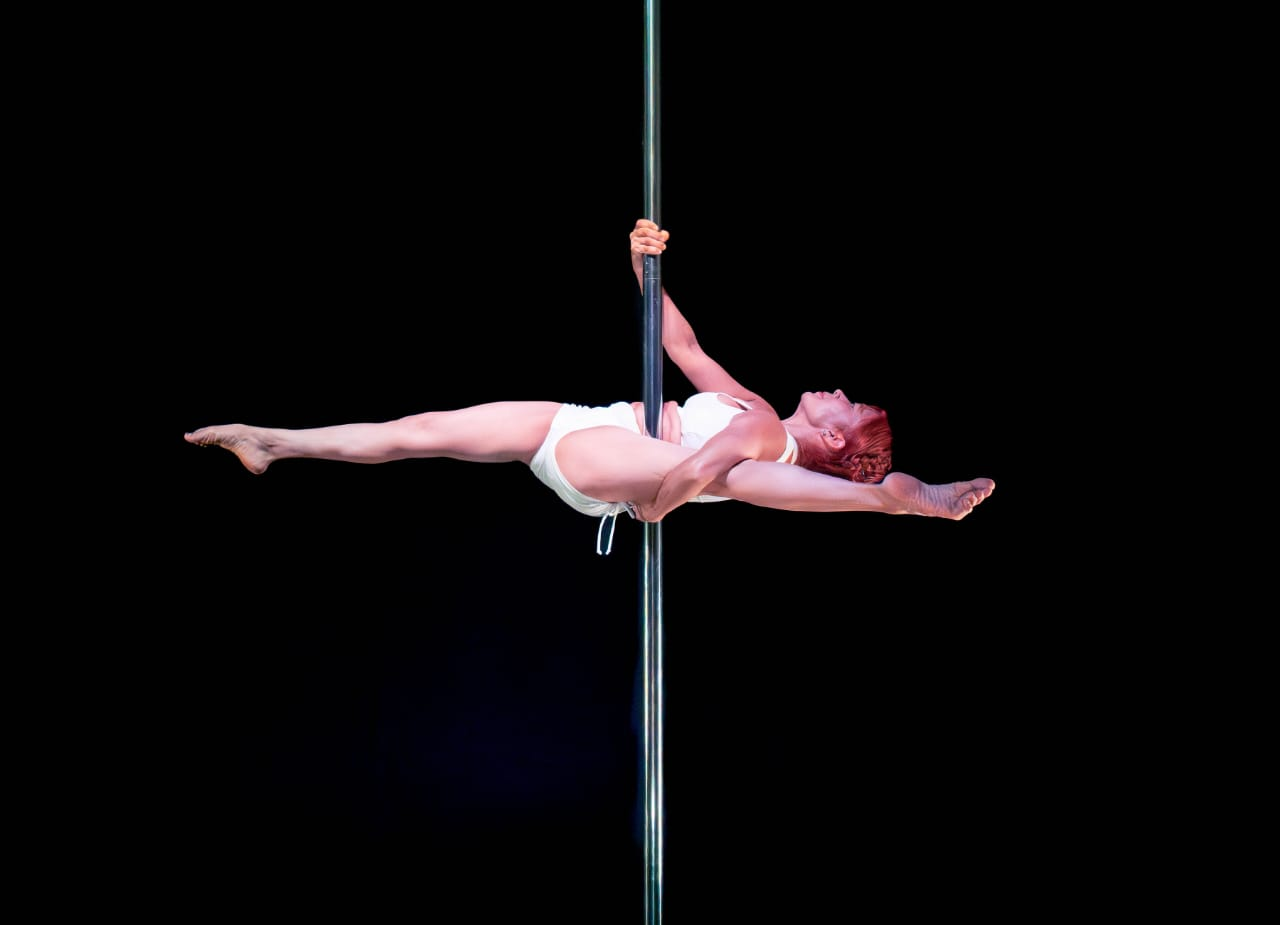
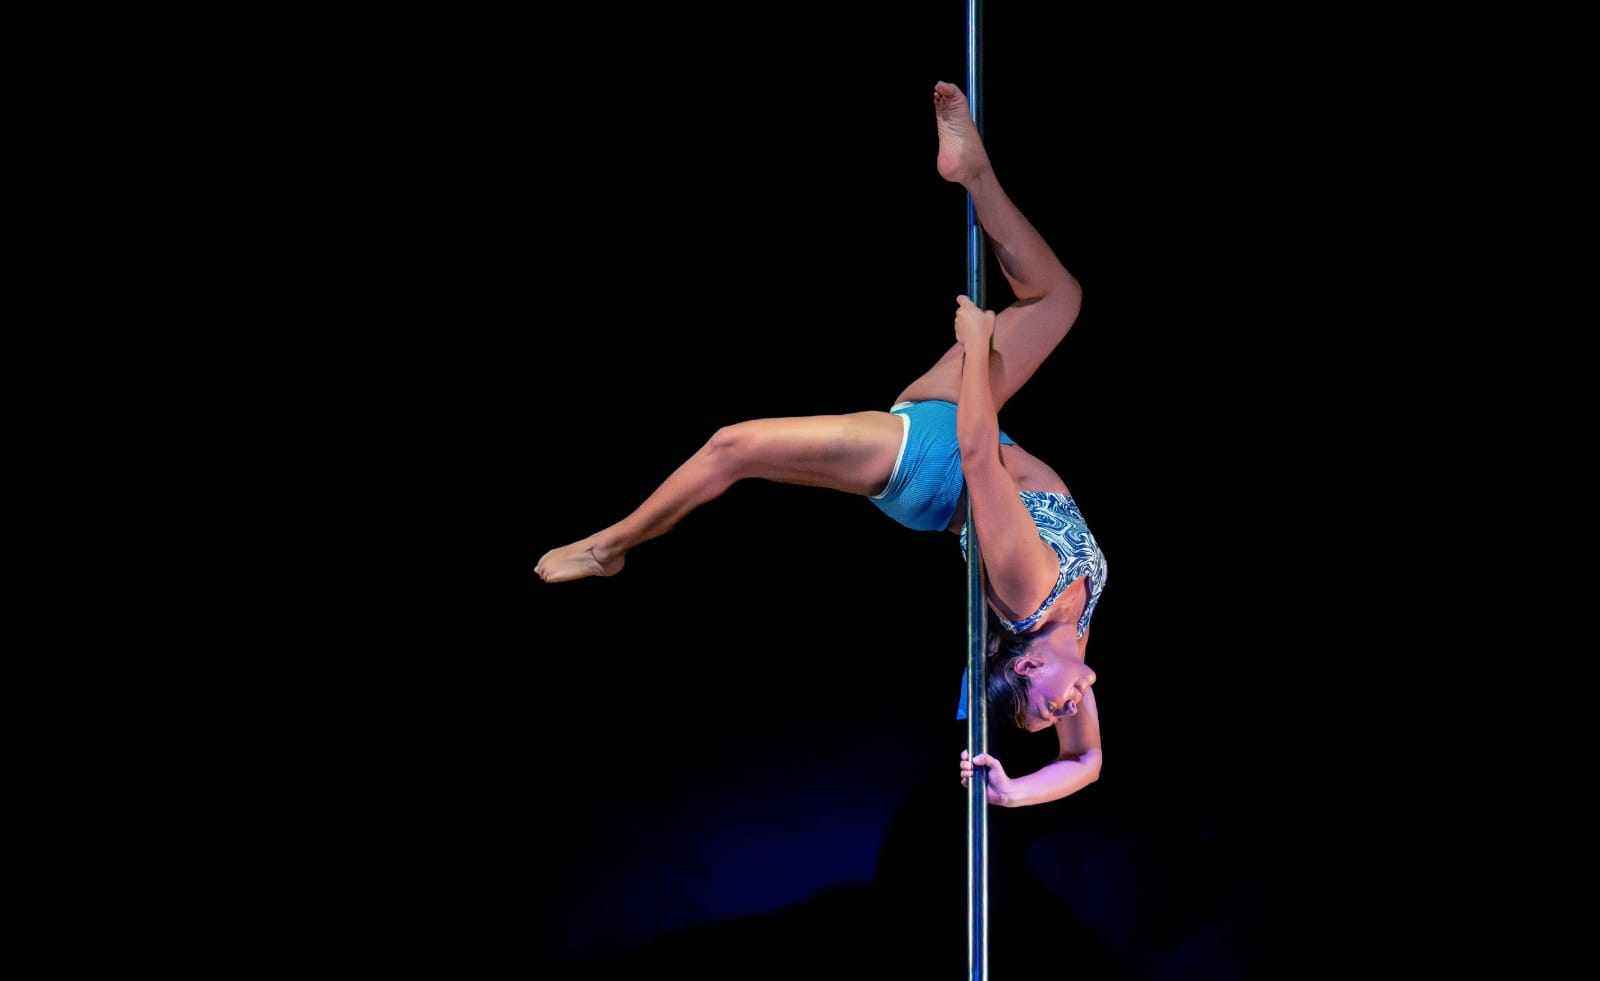
a

Changed region(s): [[0.125, 0.0, 0.7812, 1.0], [0.6562, 0.8778, 0.6875, 0.9081]]

diff --git a/inna-qro/src/Main.js b/inna-qro/src/Main.js
@@ -1,5 +1,7 @@
 import React from "react";
-import logo from "./jess.jpg";
+
+import jess from "./jess.jpg";
+import karla from "./karla.jpeg";
 import alam from "./alam.jpeg";
 import kari from "./kari.jpeg";
 import teffyflow from "./teffy flow.jpeg"
@@ -17,6 +19,8 @@ import Contacto from "./contacto";
 
 
 
+
+
 export default function Main(){
     return(
         <div className="main">
@@ -24,11 +28,22 @@ export default function Main(){
                 <div className="row name">
                     <div className="col-lg-6 col-sm-12">
                         <h1>Inna Pole Querétaro</h1>
-                        <img src={alam} alt="personal" className="img-fluid"/>
-                    </div>  
-                    <div className="col-lg-6 col-sm-12">
-                        <img src={logo} alt="personal" className="img-fluid"/>
-                    </div>
+                        
+                        <div id="carouselExampleSlidesOnly" class="carousel slide" data-ride="carousel">
+                            <div class="carousel-inner">
+                                <div class="carousel-item active">
+                                    <img src={karla} alt="karla" class="d-block w-100" className="img-fluid"/>
+                                </div>  
+                                <div class="carousel-item">
+                                    <img src={jess} alt="jess" class="d-block w-100" className="img-fluid"/>
+                                </div>
+                                <div class="carousel-item">
+                                    <img src={alam} alt="alam" class="d-block w-100" className="img-fluid"/>
+                                </div>
+                            </div>
+                        </div>
+                       
+                    </div>    
                 </div>
                     <hr/>
                     <div className="main-info">

diff --git a/inna-qro/src/index.js b/inna-qro/src/index.js
@@ -2,7 +2,7 @@ import React from 'react';
 import ReactDOM from 'react-dom/client';
 import './index.css';
 import App from './App';
-import reportWebVitals from './reportWebVitals';
+import 'bootstrap/dist/css/bootstrap.min.css';
 
 const root = ReactDOM.createRoot(document.getElementById('root'));
 root.render(
@@ -11,7 +11,4 @@ root.render(
   </React.StrictMode>
 );
 
-// If you want to start measuring performance in your app, pass a function
-// to log results (for example: reportWebVitals(console.log))
-// or send to an analytics endpoint. Learn more: https://bit.ly/CRA-vitals
-reportWebVitals();
+
